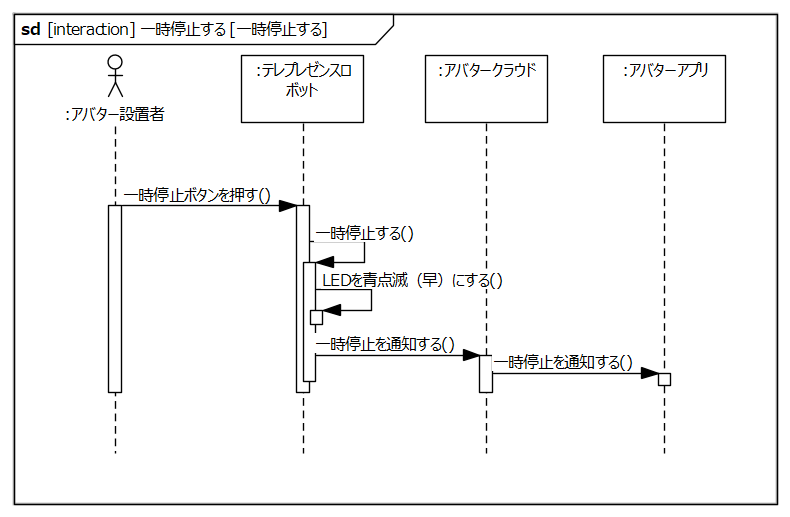
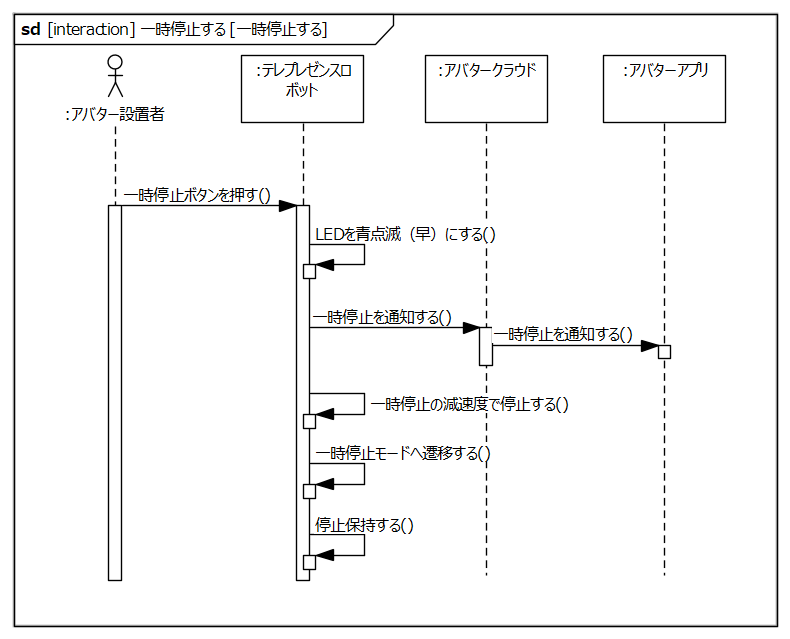
UC11,12のテーブル記述修正

diff --git a/requirements/requirement.md b/requirements/requirement.md
@@ -429,8 +429,8 @@
 
 |要求|備考|
 |:---|:---|
-|テレプレゼンスロボットを一時停止ボタンにより停止する||
-|テレプレゼンスロボットの一時停止状態を解除する||
+|テレプレゼンスロボットを一時停止ボタンにより一時停止する||
+|テレプレゼンスロボットの一時停止を通知する||
 
 ## UC-011-2: 一時停止を解除する
 
@@ -462,8 +462,9 @@
 
 |要求|備考|
 |:---|:---|
-|テレプレゼンスロボットを一時停止ボタンにより停止する||
-|テレプレゼンスロボットの一時停止状態を解除する||
+|テレプレゼンスロボットを一時停止ボタンにより一時停止解除する||
+|テレプレゼンスロボットの一時停止解除を通知する||
+|テレプレゼンスロボットは速度0を受信する||
 
 ## UC-012: 異常を検知して停止する
 
@@ -505,9 +506,7 @@
 |要求|備考|
 |:---|:---|
 |異常を検知する||
-|一時停止状態を通知する||
-|一時停止解除状態を通知する||
-|一時停止状態を解除する||
+|異常停止状態を通知する||
 
 ## UC-013: 手動で充電する
 
